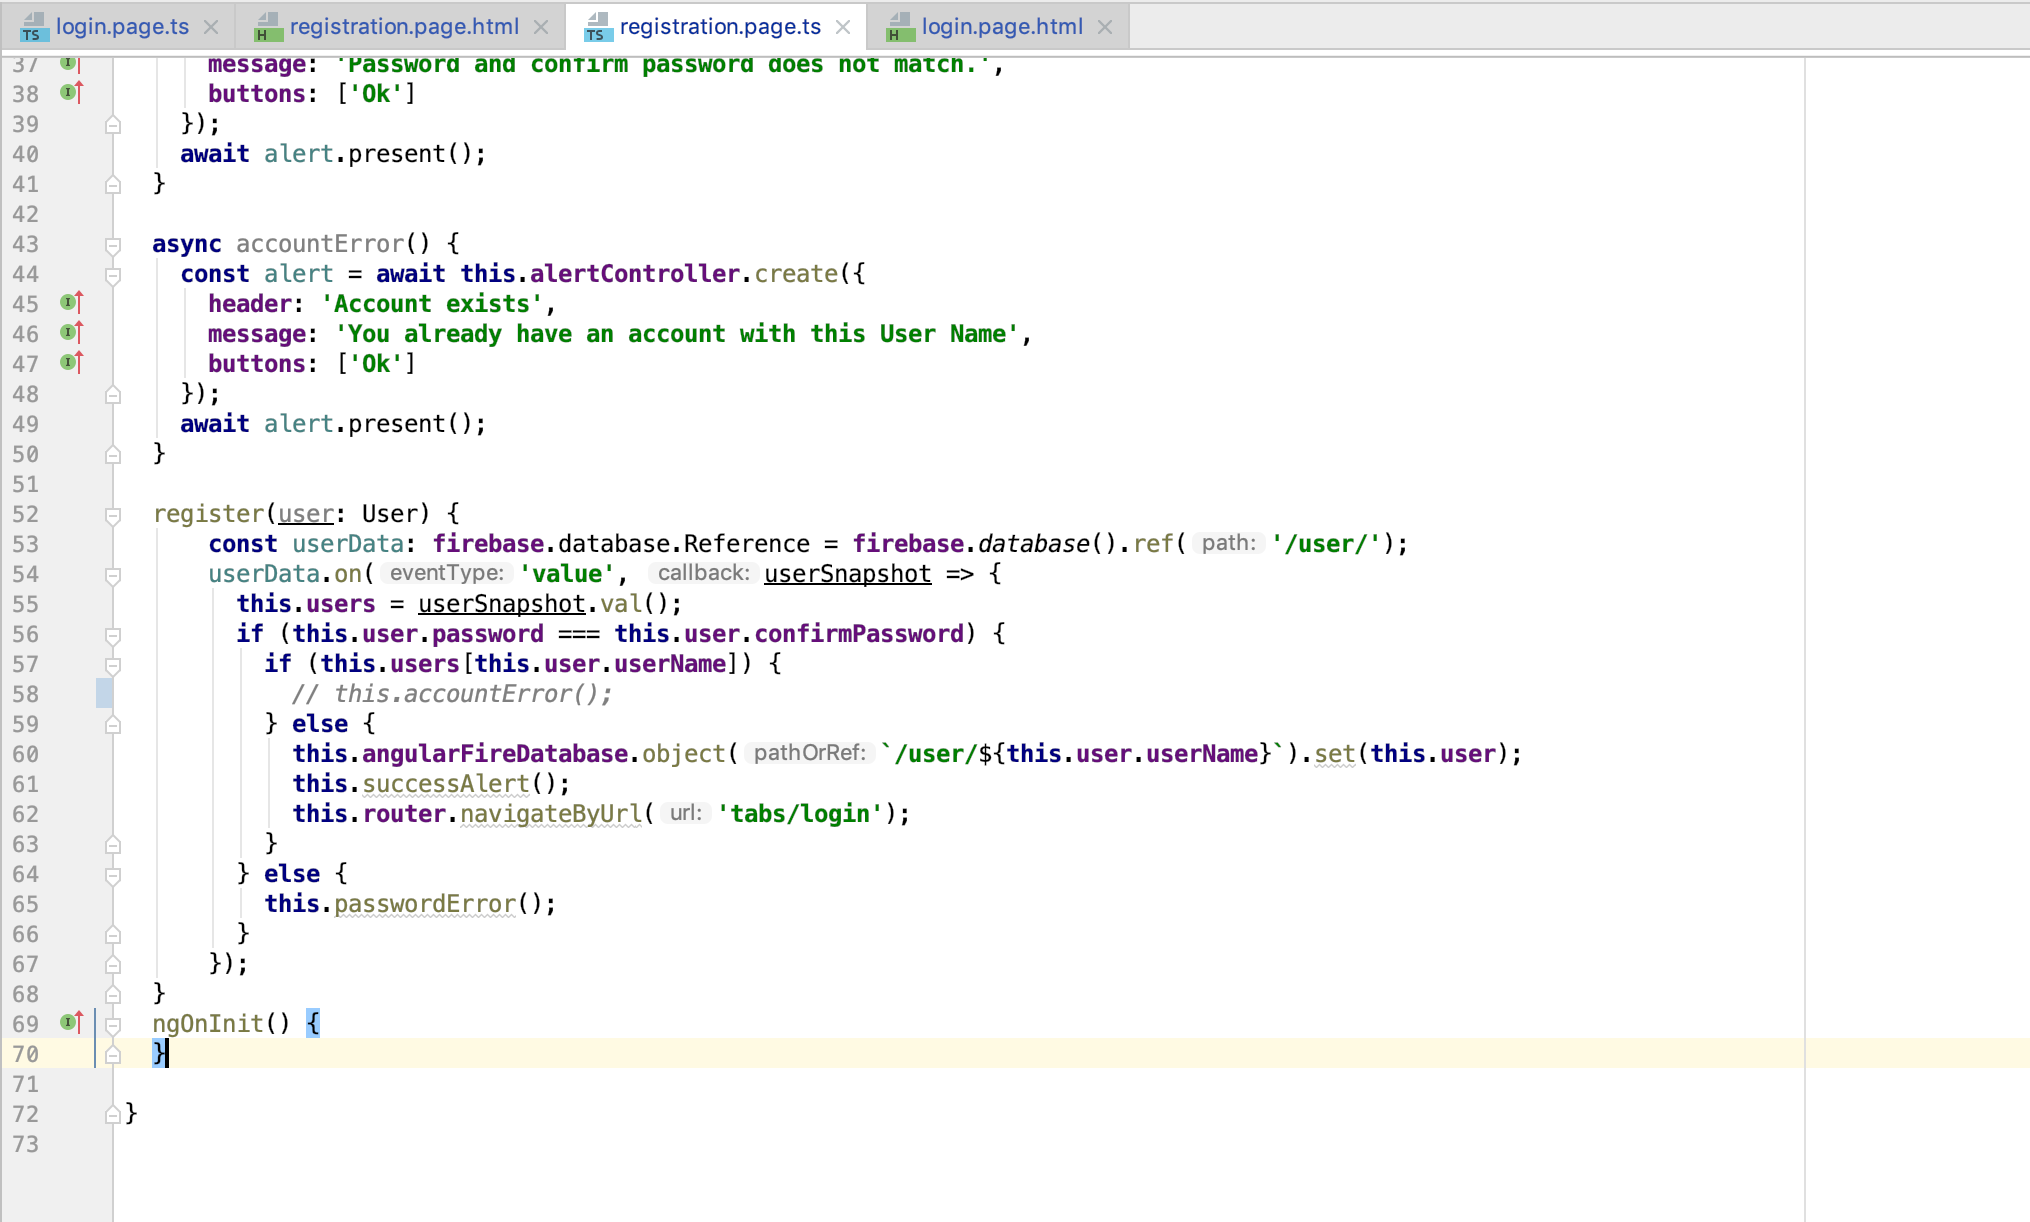
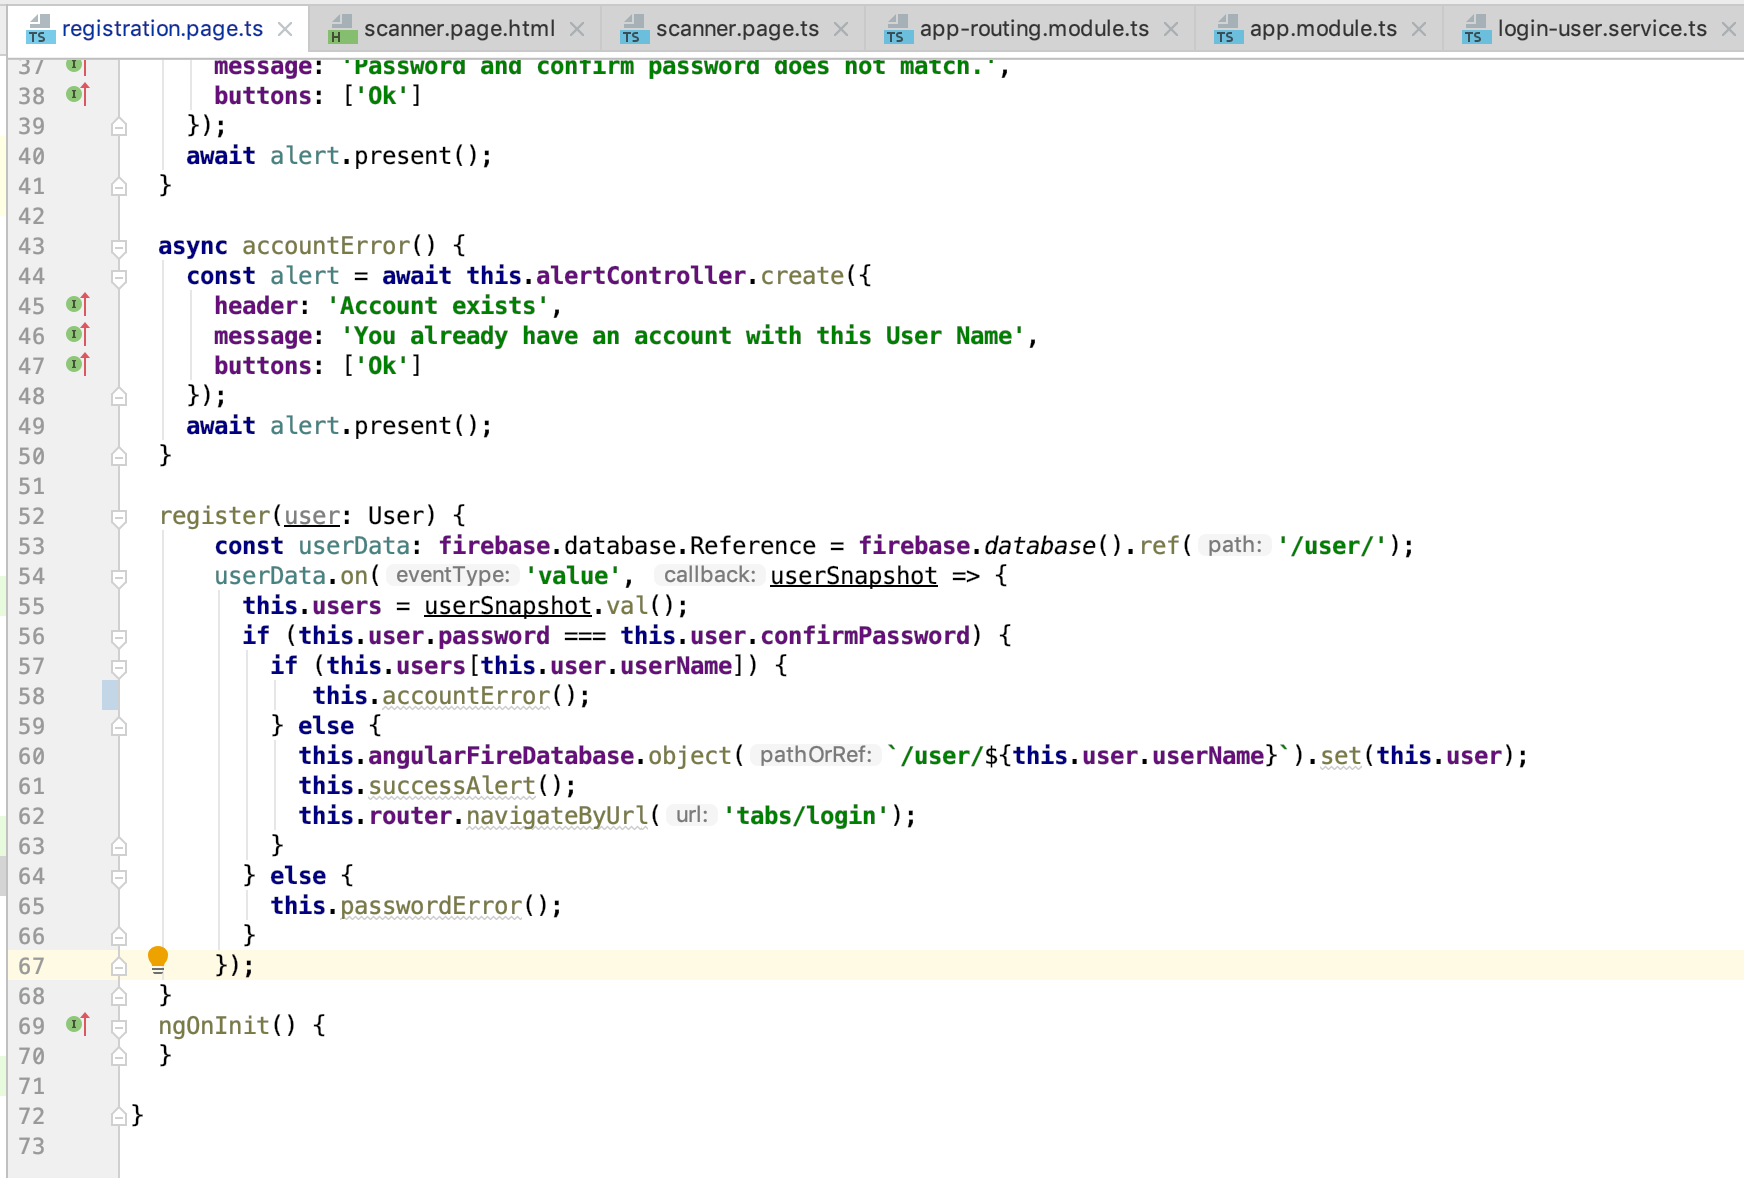
added screenshot

Changed region(s): [[0.0, 0.0, 1.0, 0.9779], [0.7431, 0.4584, 0.805, 0.489]]

diff --git a/src/app/registration/registration.page.ts b/src/app/registration/registration.page.ts
@@ -55,7 +55,7 @@ export class RegistrationPage implements OnInit {
         this.users = userSnapshot.val();
         if (this.user.password === this.user.confirmPassword) {
           if (this.users[this.user.userName]) {
-            // this.accountError();
+             this.accountError();
           } else {
             this.angularFireDatabase.object(`/user/${this.user.userName}`).set(this.user);
             this.successAlert();
